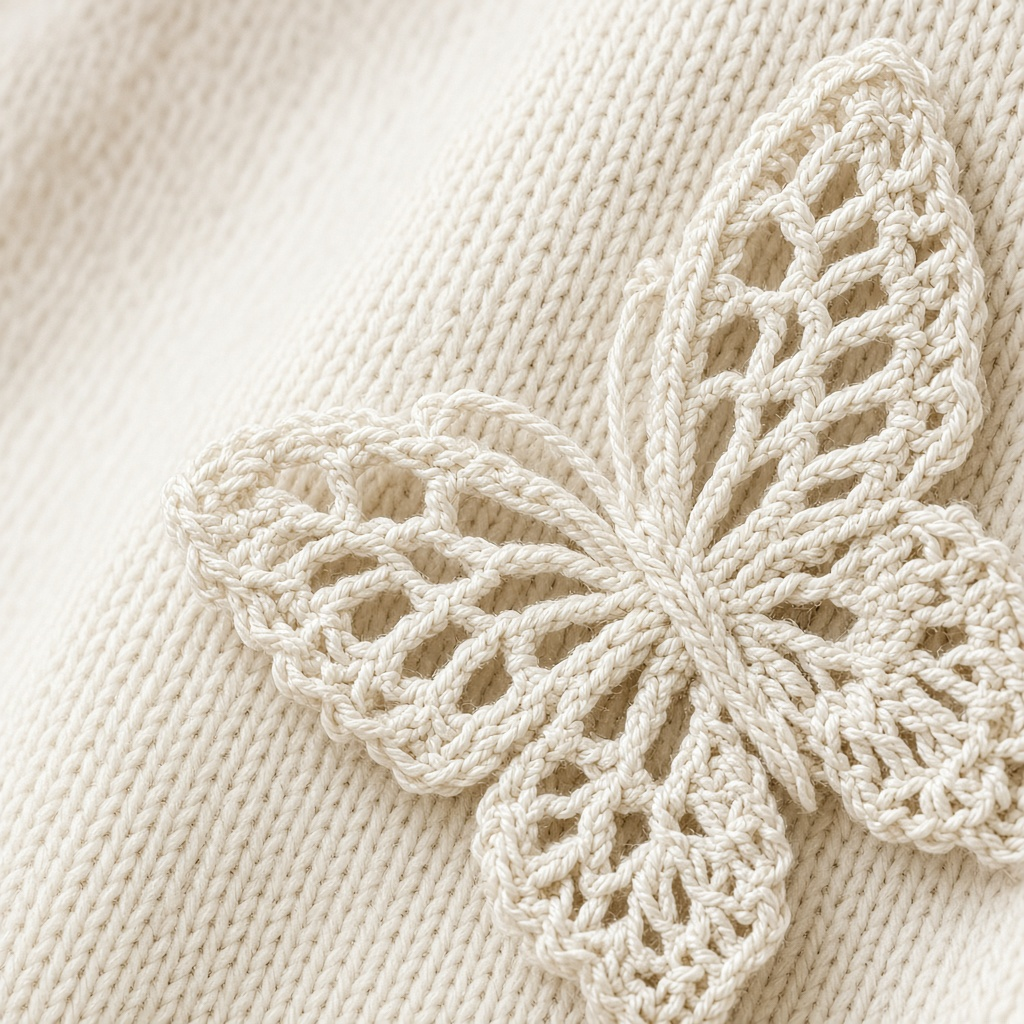
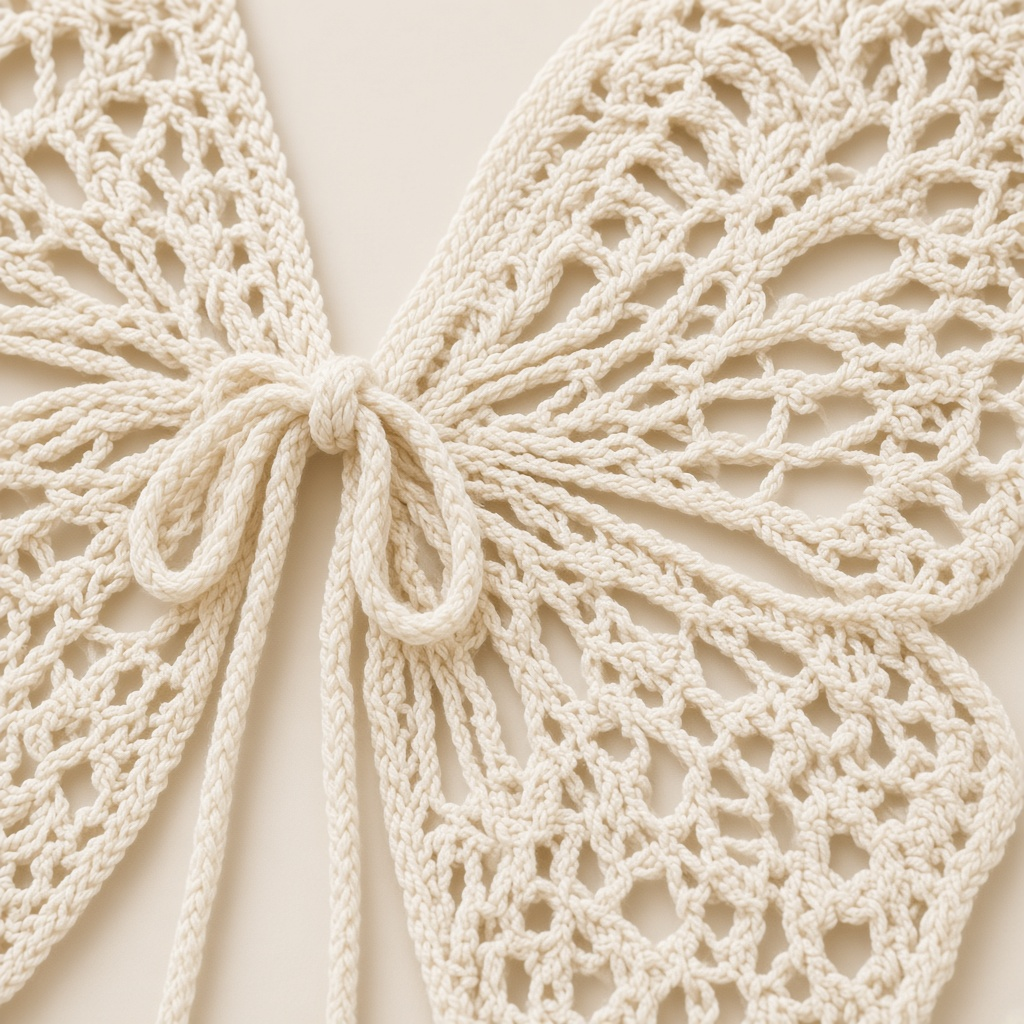
Align Butterfly Sweater visuals with real open-front lace cardigan.
Replace applique-style shots with wing-panel butterfly crochet cardigan photos and update SEO copy to match the Google niche.

diff --git a/src/lib/atelier-catalog.ts b/src/lib/atelier-catalog.ts
@@ -64,39 +64,40 @@ export const atelierProducts: AtelierProductSeed[] = [
     sku: "ZAY-ATL-BUTTERFLY",
     categorySlug: "sweaters-cardigans",
     oneLiner:
-      "Signature handmade crochet sweater with butterfly motif — soft, gift-ready, made to measure.",
+      "Open-front handmade crochet butterfly cardigan — lace wing panels, center tie, made to order.",
     story:
-      "Our Butterfly Crochet Sweater is the atelier hero: a design-led crochet pullover with a delicate butterfly motif worked into the yoke. Each piece is made to order in Satellite Town, Rawalpindi — share your size (S–L) and preferred colourway and we crochet it by hand. Perfect for winter gifts, dawats, and everyday layers that still feel special.",
+      "The Butterfly Crochet Sweater shoppers search for: an open-front lace crochet cardigan whose front panels form butterfly wings, cinched with a center yarn tie. Airy openwork mesh, short relaxed sleeves, and a soft ivory base — crocheted by hand in Satellite Town, Rawalpindi. Made to order in your colourway; share S–L fit notes on WhatsApp after checkout.",
     materials:
-      "Soft acrylic-blend / cotton-blend yarn · Butterfly motif yoke · Ribbed cuffs & hem · Hand-finished seams",
+      "Soft acrylic-blend / cotton-blend yarn · Open lace mesh · Butterfly wing front panels · Center tie cord · Hand-finished edges",
     handmadeProof:
-      "Motif, shaping, and finishing completed stitch by stitch in the ZAYUNE studio — never factory-knit.",
+      "Wing panels, lace mesh, and tie finishing completed stitch by stitch in the ZAYUNE studio — never factory-knit.",
     stylingNote:
-      "Pair with ivory trousers or a soft skirt. Made to measure S–L — note measurements on WhatsApp after checkout.",
+      "Layer over a tank or slip dress; wear open for the full wing silhouette. Made to order S–L — note measurements on WhatsApp after checkout.",
     listPrice: 6500,
     fulfillment: "MADE_TO_ORDER",
     stock: null,
     leadTimeDays: 14,
     featured: true,
-    seoTitle: "Butterfly Crochet Sweater Pakistan | Handmade ZAYUNE",
+    seoTitle: "Butterfly Crochet Sweater Pakistan | Handmade Lace Cardigan",
     seoDescription:
-      "Buy the handmade Butterfly Crochet Sweater from ZAYUNE Pakistan. Made-to-order crochet sweater with butterfly motif — ships nationwide from Rawalpindi.",
+      "Buy the handmade Butterfly Crochet Sweater from ZAYUNE Pakistan — open-front lace butterfly cardigan with center tie, made to order, ships nationwide from Rawalpindi.",
     tags: [
       "butterfly crochet sweater Pakistan",
-      "handmade crochet sweater",
-      "crochet pullover Rawalpindi",
-      "made to order sweater Pakistan",
-      "ZAYUNE butterfly sweater",
+      "butterfly crochet cardigan",
+      "handmade lace crochet cover up",
+      "open front crochet sweater",
+      "boho crochet butterfly cardigan",
+      "made to order crochet Pakistan",
     ],
     images: [
       {
         url: local("butterfly-sweater.jpg"),
-        alt: "Handmade Butterfly Crochet Sweater — ZAYUNE Pakistan",
+        alt: "Handmade open-front Butterfly Crochet Sweater cardigan with lace wing panels — ZAYUNE Pakistan",
         kind: "hero",
       },
       {
         url: local("butterfly-sweater-detail.jpg"),
-        alt: "Butterfly motif and stitch detail on handmade crochet sweater",
+        alt: "Close-up of handmade crochet butterfly wing lace and center tie on Butterfly Sweater",
         kind: "detail",
       },
     ],

diff --git a/src/lib/seo-copy.ts b/src/lib/seo-copy.ts
@@ -28,13 +28,14 @@ export const collectionSeo: Record<
   { h1Extra: string; body: string; keywords: string[] }
 > = {
   "sweaters-cardigans": {
-    h1Extra: "Handmade crochet sweaters & cardigans Pakistan",
-    body: `Shop handmade crochet sweaters from ZAYUNE in ${studioLocationLine()} — including the signature Butterfly Crochet Sweater, made to order with nationwide shipping.`,
+    h1Extra: "Handmade crochet sweaters & butterfly cardigans Pakistan",
+    body: `Shop handmade crochet sweaters from ZAYUNE in ${studioLocationLine()} — including the signature open-front Butterfly Crochet Sweater (lace wing cardigan), made to order with nationwide shipping.`,
     keywords: [
       "butterfly crochet sweater Pakistan",
-      "handmade crochet sweater",
+      "butterfly crochet cardigan",
+      "handmade lace crochet cover up",
+      "open front crochet sweater",
       "crochet cardigan Rawalpindi",
-      "made to order sweater Pakistan",
     ],
   },
   "beanies-hats": {

diff --git a/src/components/home/HeroSlider.tsx b/src/components/home/HeroSlider.tsx
@@ -17,7 +17,7 @@ const slides = [
     eyebrow: "Atelier edit",
     title: "Butterfly Crochet Sweater.",
     subtitle:
-      "Signature handmade sweater with butterfly motif — made to order in Pakistan.",
+      "Open-front lace butterfly cardigan — handmade, made to order in Pakistan.",
     cta: "Shop Butterfly Sweater",
     href: "/product/butterfly-crochet-sweater",
   },
